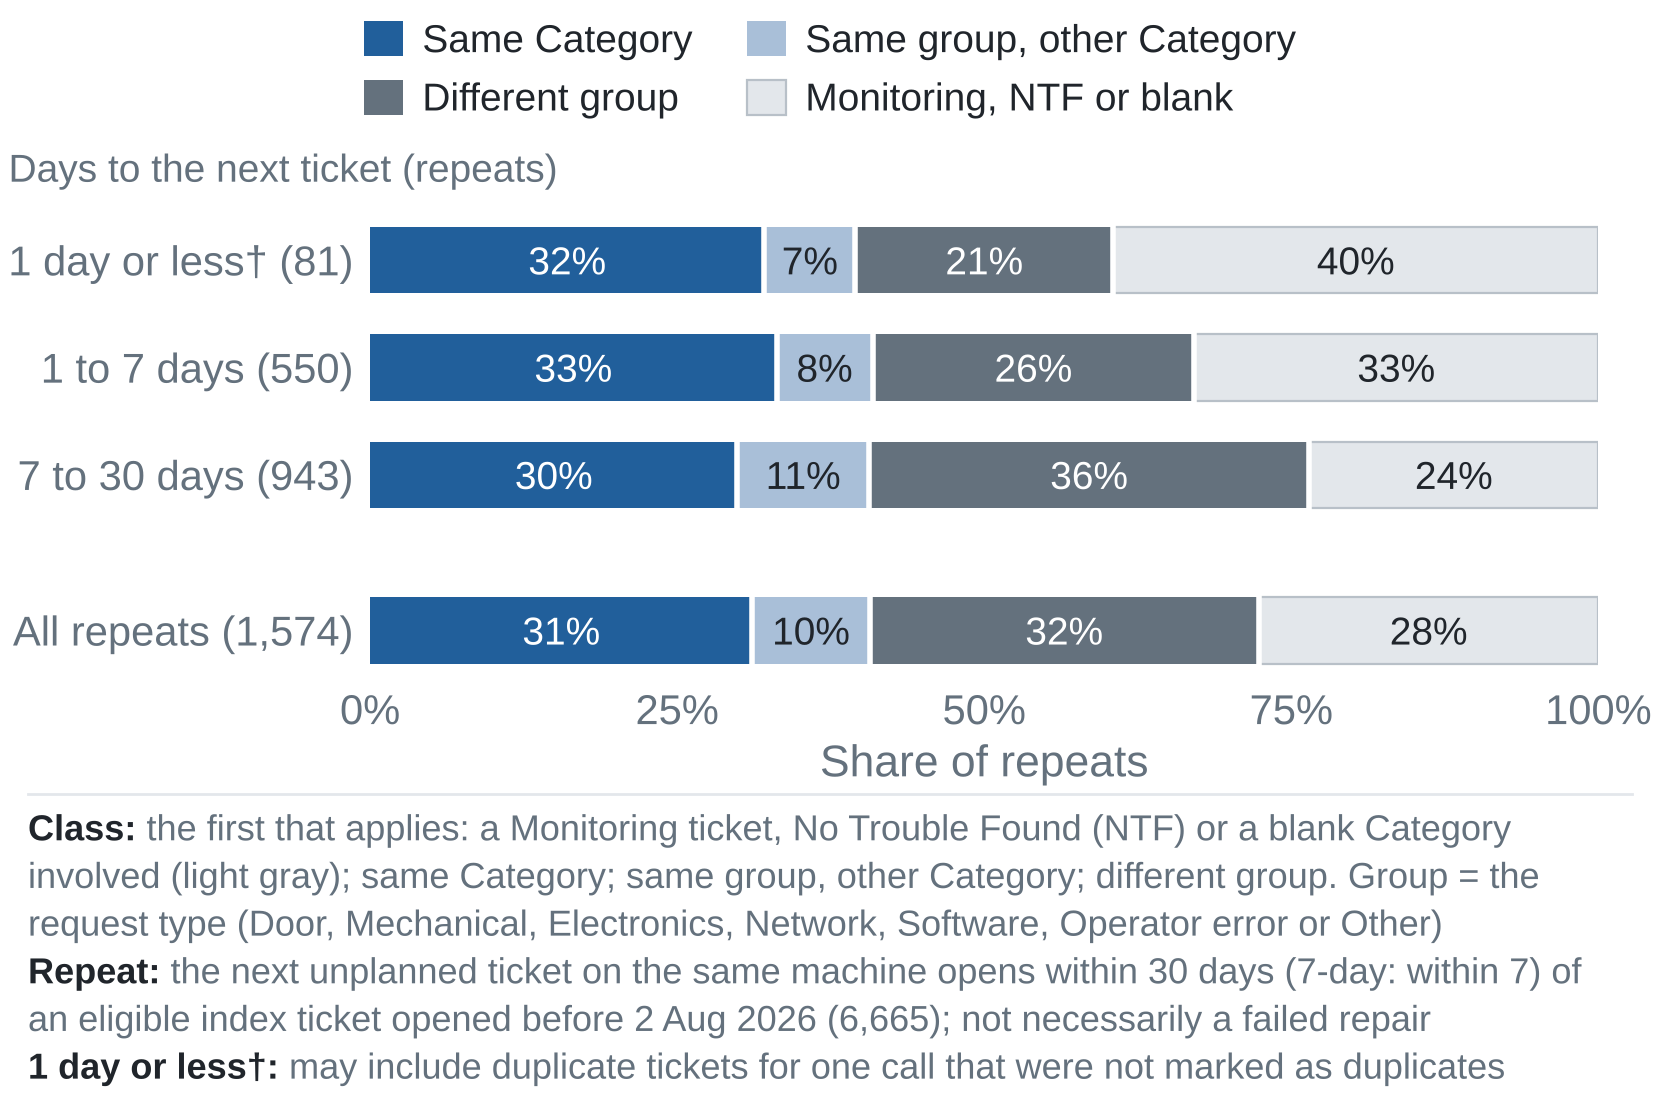
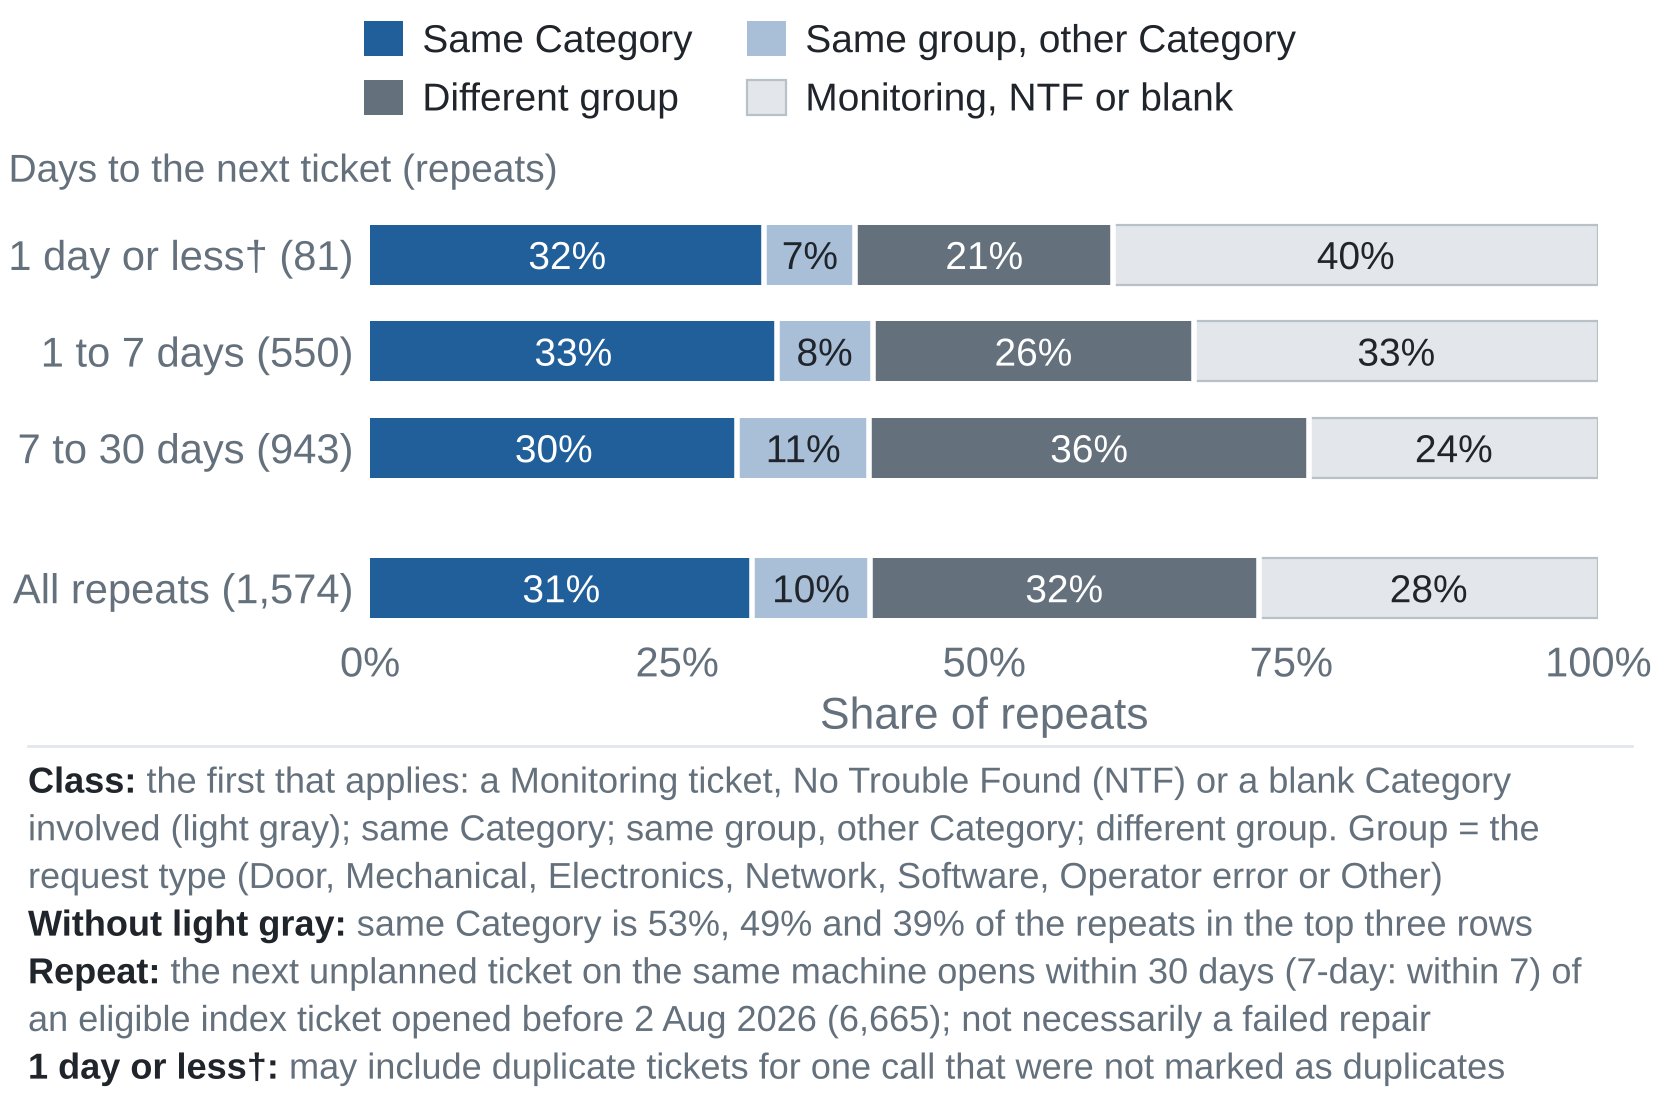
Follow-up charts and docs: fixes from the deck fact-check
The fact-check of slides 4a-5e (titles, takeaways, notes, alt text and the
rendered charts) against verification/outputs/followups/ confirmed 47
findings. The slide text fixes live in the deck; this commit carries the
chart and doc side:

- Definitions (followup_terms.py): pairing cells say "group", not "type";
  the share ratio leaves out Not categorised; the extra-tickets term says
  the numbers on the right are within model; sl_30's cells define n.
- sl_27 adds "Without light gray": same Category is 53%, 49% and 39% of
  the repeats in the first three gap rows once the process classes are
  left out (checked against the row-level repeats).
- sl_30 prints each row's repeats (n) right of every matrix.
- sl_24 and sl_25 label the pooled row Other+, as the column is.
- sl_31 labels the y axis on every panel.
- docs/10 and the executive summary: no model or telemetry type with 100+
  eligible tickets clearly stands out; item 9 is "Tickets close together
  are more often the same problem".

All 31 slide charts redraw with 2,202 number checks passing; unit tests
36/36 and the fixture test pass; no real identifiers on the charts or in
the deck text.

Claude-Session: https://claude.ai/code/session_01XBD7pXL4msNy4bnuJzjzhZ

Changed region(s): [[0.0, 0.5, 1.0, 0.8438], [0.0, 0.1875, 0.9831, 0.4688], [0.0, 0.2188, 0.2151, 0.25]]

diff --git a/viz/slides/followup_terms.py b/viz/slides/followup_terms.py
@@ -18,7 +18,8 @@ MATRIX_GROUPS = ['Door', 'Mechanical', 'Electronics', 'Network', 'No Trouble Fou
                  'Other']
 MATRIX_MAP = {'Software': 'Other', 'Operator error': 'Other', 'Other': 'Other'}
 MATRIX_SHORT = {'Door': 'Door', 'Mechanical': 'Mech.', 'Electronics': 'Electr.', 'Network': 'Netw.',
-                'No Trouble Found': 'NTF', 'Monitoring': 'Monit.', 'Not categorised': 'No cat.', 'Other': 'Other'}
+                'No Trouble Found': 'NTF', 'Monitoring': 'Monit.', 'Not categorised': 'No cat.', 'Other': 'Other+'}
+MATRIX_ROW = {'Other': 'Other+'}   # row labels: the pooled group (Software, Operator error, Other) reads Other+
 
 # Pairing classes on a slide: the three process classes shown as one segment (the CSVs keep all six). Blues = the
 # same problem or group, grays = a different group or a process ticket; adjacent pairs pass the dataviz validator's
@@ -72,6 +73,18 @@ def signed(x):
     return f'{x:+.0f}'.replace('-', '−')
 
 
+def same_wo_process():
+    """Same Category as a share of the repeats in each of the first three gap bins, leaving out the three process
+    classes (Monitoring, No Trouble Found or a blank Category involved): sl_27's light-gray segment."""
+    c = __import__('pandas').read_csv(FU / 'rp_classes.csv')
+    out = []
+    for b in ('1 day or less', 'over 1 to 7 days', 'over 7 to 30 days'):
+        x = c[c.gap_bin == b].set_index('pair_class').pairs
+        content = x.reindex(['Same Category', 'Same group, other Category', 'Different group']).sum()
+        out.append(x['Same Category'] / content)
+    return out
+
+
 def p_text(p, n_perm):
     """A permutation p-value as printed: below the smallest reachable value it reads '< 0.001'."""
     floor = 1 / (n_perm + 1)
@@ -110,7 +123,8 @@ def terms():
         'share_ratio': ('Share ratio', "a type's share of under-4 machines' tickets ÷ its share of 4+ machines' "
                         f"tickets of the same model, pooled over the {len(sup['support_models'])} models with 100+ "
                         f"machine-months in each age group ({100 * sup['under4_share_support']:.0f}% of under-4 and "
-                        f"{100 * sup['plus4_share_support']:.0f}% of 4+ tickets; Mantel-Haenszel); 1 = same mix"),
+                        f"{100 * sup['plus4_share_support']:.0f}% of 4+ tickets; Mantel-Haenszel); 1 = same mix; "
+                        'Not categorised is left out'),
         'interval': ('Bar', '95% interval, bootstrap over accounts (2,000 draws)'),
         'perm_test': ('Test', 'under-4 and 4+ labels shuffled among machines of the same model, 2,000 times: the mix '
                       f"differs overall (p {p_text(a['global_p'], s['n_perm'])}); blue = differs after "
@@ -125,8 +139,9 @@ def terms():
         'interval_halves': ('Bar', f'95% interval, bootstrap over accounts ({nb} draws; the {und_h} in which a model '
                             "has no 4+ machine-months are left out); bold = the change's interval excludes 0"),
         'extra': ('Extra tickets', "under-4 machines' tickets minus what their months give at 4+ machines' rates "
-                  f"({a['extra_tickets']:,.0f} in all). Ring: all; dot: within model, at each model's own 4+ rate on "
-                  f"the {len(sup['support_models'])} models with {s['definitions']['min_support_months']}+ "
+                  f"({a['extra_tickets']:,.0f} in all). Ring: all; dot and the numbers on the right: within model, at "
+                  f"each model's own 4+ rate on the {len(sup['support_models'])} models with "
+                  f"{s['definitions']['min_support_months']}+ "
                   'machine-months in each age group; the gap: model mix, plus tickets on models outside the '
                   f"comparison ({a['extra_outside_support']:.0f} in all; {signed(out_g.min())} to "
                   f'{signed(out_g.max())} by group)'),
@@ -134,8 +149,9 @@ def terms():
                      'categorised); models with 30+ tickets in each age group'),
         'rate_model': ('Rate per 100', 'unplanned tickets per 100 installed machine-months; – for telemetry types, '
                        'which have no installed months until the database extract'),
-        'mix_test': ('Mix test', "under-4 and 4+ labels shuffled among machines of the same model (a type's: of the "
-                     f"same type and model), {s['n_perm']:,} times; Benjamini-Hochberg q, bold = q < 0.05"),
+        'mix_test': ('Mix test', 'under-4 and 4+ labels shuffled among machines of the same model (for a telemetry '
+                     f"type: of the same telemetry type and model), {s['n_perm']:,} times; Benjamini-Hochberg q, "
+                     'bold = q < 0.05'),
         'telemetry_type_cut': ('Telemetry type', "the clearView machine type of the device matched to the machine's "
                                'tickets; ' + type_spans()),
         'telemetry_type': ('Telemetry type', 'the clearView type of the matched device; scrubex2.0-2, -3, -4 and -5 '
@@ -149,15 +165,15 @@ def terms():
         'repeat': ('Repeat', 'the next unplanned ticket on the same machine opens within 30 days (7-day: within 7) of '
                    f"an eligible index ticket opened before 2 Aug 2026 ({b['eligible']:,}); not necessarily a failed "
                    'repair'),
-        'pairing': ('Cell', "share of the row's repeats whose next ticket is of the column's type (outlined: same "
-                    "type; blank: none); row label: repeats and the share of that type's tickets that repeat"),
-        'pairing7': ('Cell', "share of the row's repeats whose next ticket is of the column's type (outlined: same "
-                     "type; blank: none); row label: 7-day repeats and the share of that type's tickets that repeat "
+        'pairing': ('Cell', "share of the row's repeats whose next ticket is in the column's group (outlined: same "
+                    "group; blank: none); row label: repeats and the share of that group's tickets that repeat"),
+        'pairing7': ('Cell', "share of the row's repeats whose next ticket is in the column's group (outlined: same "
+                     "group; blank: none); row label: 7-day repeats and the share of that group's tickets that repeat "
                      'within 7 days'),
-        'pairing_panel': ('Cell', "share of the row's repeats whose next ticket is of the column's type (outlined: same "
-                          'type; blank: none; italic: fewer than 5 pairs)'),
-        'rest_panel': ('Rest', 'Network, Software, Operator error, Other and Not categorised together; NTF = No Trouble '
-                       'Found'),
+        'pairing_panel': ('Cell', "share of the row's repeats whose next ticket is in the column's group (outlined: "
+                          "same group; blank: none; italic: fewer than 5 pairs); n = the row's repeats"),
+        'rest_panel': ('Rest', 'Network, Software, Operator error, Other and Not categorised together; NTF = No '
+                       'Trouble Found'),
         'pairs_gap': ('Pairs', f'{int(gaps.pairs.sum()):,} pairs of unplanned tickets on one machine, consecutive or '
                       'not, each with a recorded Category (No Trouble Found counts, Monitoring does not); 90+ days '
                       'apart: the usual mix'),
@@ -167,19 +183,21 @@ def terms():
                        f"{100 * sh['observed_share']:.0f}% share it vs {100 * lab['null_share']:.0f}% by chance (their "
                        f"own mix, not the {100 * usual:.0f}% line; p {p_text(lab['p'], s['n_perm'])})"),
         'interval_line': ('Line on each bar', f'95% interval, bootstrap over accounts ({nb} draws)'),
+        'classes_gap': ('Without light gray', 'same Category is ' + and_list(
+            f'{100 * x:.0f}%' for x in same_wo_process()) + ' of the repeats in the top three rows'),
         'one_day': ('1 day or less†', 'may include duplicate tickets for one call that were not marked as duplicates'),
         'classes': ('Class', 'the first that applies: a Monitoring ticket, No Trouble Found (NTF) or a blank Category '
                     'involved (light gray); same Category; same group, other Category; different group. '
                     'Group = the request type (Door, Mechanical, Electronics, Network, Software, Operator error or '
                     'Other)'),
-        'repeat7': ('7-day follow-up', 'the next unplanned ticket on the same machine opens within 7 days of an index '
+        'repeat7': ('7-day repeat', 'the next unplanned ticket on the same machine opens within 7 days of an index '
                     f"ticket opened before 2 Aug 2026 ({b['repeats_7']:,} of {b['eligible']:,}); not necessarily a "
                     'failed repair'),
-        'other_groups': ('Other', 'Software, Operator error and Other; No cat. = Not categorised: no Category, outside '
-                         'the Electronics, Network, Software and Operator Error codes; NTF = No Trouble Found'),
+        'other_groups': ('Other+', 'Software, Operator error and Other; No cat. = Not categorised: no Category, '
+                         'outside the Electronics, Network, Software and Operator Error codes; NTF = No Trouble Found'),
         'install_rate': ('Rate', "unplanned tickets of the type per 100 installed machine-months (Aug 2025 to Aug "
                          f"2026) on the {n_sup} models with 100+ machine-months in each age group, by the machine's "
-                         f"install year; line: 95% interval, bootstrap over accounts ({nb} draws)"),
+                         f"install year; vertical line: 95% interval, bootstrap over accounts ({nb} draws)"),
         'install_band': ('Shaded', 'install years whose machines are under 4 at the midpoint of their months on '
                          f"IPA's list: the first three bars of slide 4 ({100 * float(u4_2022.iloc[0]):.0f}% of 2022 "
                          'installs)'),
@@ -195,8 +213,8 @@ def terms():
         'repeat_interval': ('Line', f'95% interval of the repeat rate, bootstrap over accounts ({nb} draws)'),
         'share_repeats': ('Share', f"of all {b['repeats_30']:,} repeats; models (or types) with 100+ eligible index "
                           'tickets, the rest pooled'),
-        'class_units': ('Rows', 'models (or telemetry types) with 50+ repeats within 30 days (repeats in brackets), the '
-                        'rest pooled; No device match and Unknown shown apart; descriptive, not tested'),
+        'class_units': ('Rows', 'models (or telemetry types) with 50+ repeats within 30 days (repeats in brackets), '
+                        'the rest pooled; No device match and Unknown shown apart; descriptive, not tested'),
         'matrix_models': ('Models', 'the four with the most repeats within 30 days; every model and telemetry type '
                           'is in rp_model_matrices.csv'),
         'random_timing': ('Random timing', "the repeat rate if each machine's tickets fell at random over its own "

diff --git a/viz/slides/sl_31_install_years.py b/viz/slides/sl_31_install_years.py
@@ -55,8 +55,10 @@ def plot(out_dir=S.FIG_DIR):
                     [y.install.astype(int).isin(YEARS)].all()))
     # The shaded years: machines under 4 at the midpoint (90% of 2022 installs, all later ones, none earlier).
     u4 = years[years.category == ALL].set_index('install').under4_share_of_machines
-    S.check('sl_31 install years 2023-2026 are all under 4', 1, int((u4[[str(y) for y in range(2023, 2027)]] == 1).all()))
-    S.check('sl_31 install years up to 2021 are all 4+', 1, int((u4[[str(y) for y in range(2016, 2022)]] == 0).all()))
+    S.check('sl_31 install years 2023-2026 are all under 4', 1,
+            int((u4[[str(y) for y in range(2023, 2027)]] == 1).all()))
+    S.check('sl_31 install years up to 2021 are all 4+', 1,
+            int((u4[[str(y) for y in range(2016, 2022)]] == 0).all()))
     share22 = float(u4['2022'])
 
     fig, ax0 = S.figure(S.FULL_TALL)
@@ -65,7 +67,7 @@ def plot(out_dir=S.FIG_DIR):
     fig.get_layout_engine().set(wspace=0.06)
     cat_max = max(years[years.category.isin(ORDER) & years.install.astype(int).isin(YEARS)].rate_hi.max(), 1)
     ylim_cat = (0, np.ceil(cat_max + 0.25))
-    for k, (ax, c) in enumerate(zip(axes, [ALL] + ORDER)):
+    for ax, c in zip(axes, [ALL] + ORDER):
         S.style_axes(ax, grid='y', baseline='bottom')
         y = years[(years.category == c) & years.install.astype(int).isin(YEARS)].copy()
         y['yr'] = y.install.astype(int)
@@ -87,8 +89,6 @@ def plot(out_dir=S.FIG_DIR):
         ax.set_ylim(0, top)
         if c == ALL:
             ax.set_ylabel('Tickets per 100 machine-months')
-        elif k > 1:
-            ax.tick_params(axis='y', labelleft=False)
         ax.set_title(c, loc='left', fontsize=S.FONT, color=S.INK, pad=26)
         r = cohorts.loc[(c, PEAK)]
         txt = f"{PEAK.replace('-', '–')} vs {NEWEST.replace('-', '–')} installs: {ratio_text(r)}"
@@ -103,11 +103,13 @@ def plot(out_dir=S.FIG_DIR):
                 int(r.ratio_lo <= r.ratio_to_newest_cohort <= r.ratio_hi))
     for ax in axes[2:]:
         ax.sharey(axes[1])
+        ax.tick_params(axis='y', labelleft=True)        # each panel reads its own values
     axes[1].set_ylim(*ylim_cat)
     S.check('sl_31 every Category interval inside its axes', 1,
             int(years[years.category.isin(ORDER) & years.install.astype(int).isin(YEARS)].rate_hi.max() < ylim_cat[1]))
 
-    handles = [Line2D([], [], color=S.BLUE, lw=1.2, marker='o', ms=6.5, mec=S.WHITE, label='install year, with 95% interval'),
+    handles = [Line2D([], [], color=S.BLUE, lw=1.2, marker='o', ms=6.5, mec=S.WHITE,
+                      label='install year, with 95% interval'),
                Line2D([], [], color=S.GRAY, lw=2.0, label='install cohort (2016–18, 2019–21, 2022–23, 2024–26)'),
                Patch(facecolor=S.GRID, alpha=0.55, label='under 4 this year')]
     fig.legend(handles=handles, loc='outside upper center', ncols=3, fontsize=S.SMALL, handlelength=2.2,

diff --git a/viz/slides/sl_27_repeat_classes.py b/viz/slides/sl_27_repeat_classes.py
@@ -32,7 +32,7 @@ from sl_24_repeat_pairings_7d import pct_drawn, pct_text, text_width_pt  # noqa:
 from sl_26_same_problem_by_gap import check_numbers  # noqa: E402
 
 PNG = 'sl_27_repeat_classes.png'
-TERMS = ['classes', 'repeat', 'one_day']
+TERMS = ['classes', 'classes_gap', 'repeat', 'one_day']
 DAGGER = '†' if 'one_day' in TERMS else ''   # marks the 1-day bin once its caveat is defined
 BINS = ['1 day or less', 'over 1 to 7 days', 'over 7 to 30 days', 'all repeats']
 NAMES = ['1 day or less' + DAGGER, '1 to 7 days', '7 to 30 days', 'All repeats']
@@ -168,6 +168,12 @@ def check_definitions(p, rep, s):
         ('before 2 Aug 2026: the cutoff\'s year', r'before \d+ \w+ (\d{4})', cutoff.year, 0),
         ('6,665 eligible index tickets', r'\(([\d,]+)\)', b['eligible'], 0)])
     check_numbers('sl_27', t, 'classes', [])
+    content = rep[rep.pair_class.isin(['Same Category', 'Same group, other Category', 'Different group'])]
+    wo = [100 * (content[content.gap_bin == b].pair_class == 'Same Category').mean() for b in BINS[:3]]
+    check_numbers('sl_27', t, 'classes_gap', [
+        ('same Category without the process classes, 1 day or less', r'is (\d+)%', wo[0], 0.5),
+        ('same Category without the process classes, 1 to 7 days', r'is \d+%, (\d+)%', wo[1], 0.5),
+        ('same Category without the process classes, 7 to 30 days', r'and (\d+)% of', wo[2], 0.5)])
     groups = re.search(r'request type \(([^)]*)\)', t['classes'][1])
     if groups:                                   # the groups the definition names = those in the three content classes
         named = sorted(re.split(r', (?:or )?| or ', groups.group(1)))

diff --git a/viz/slides/sl_24_repeat_pairings_7d.py b/viz/slides/sl_24_repeat_pairings_7d.py
@@ -185,7 +185,8 @@ def pairing_figure(days, tag):
                 float(pt.strip('(%)')), 0.5)
     w_pct = max(text_width_pt(fig, t, S.SMALL) for t in pct_txt)
     w_rep = max(text_width_pt(fig, t, S.SMALL) for t in rep_txt)
-    w_name = max(text_width_pt(fig, t, S.TICK) for t in g)
+    names = [T.MATRIX_ROW.get(x, x) for x in g]
+    w_name = max(text_width_pt(fig, t, S.TICK) for t in names)
     gap0, gap1, gap2 = 7, 5, 11           # points: matrix to %, % to repeats, repeats to name
     for i in range(len(g)):
         for txt, x in ((pct_txt[i], -gap0), (rep_txt[i], -(gap0 + w_pct + gap1))):
@@ -193,7 +194,7 @@ def pairing_figure(days, tag):
                         textcoords='offset points', ha='right', va='center_baseline', fontsize=S.SMALL, color=S.INK2)
     pad = gap0 + w_pct + gap1 + w_rep + gap2
     ax.set_yticks(np.arange(len(g)) + 0.5)
-    ax.set_yticklabels(g)
+    ax.set_yticklabels(names)
     ax.tick_params(axis='y', pad=pad)
     for t in ax.get_yticklabels():
         t.set_verticalalignment('center_baseline')

diff --git a/viz/slides/sl_30_model_matrices.py b/viz/slides/sl_30_model_matrices.py
@@ -87,6 +87,13 @@ def plot(out_dir=S.FIG_DIR):
                 else:
                     S.check(f'{tag} {gi} -> {gj} blank = no pairs', 0, int(counts.iloc[i, j]))
 
+        for i, gi in enumerate(ROWS):               # each row's repeats, right of the matrix
+            n_txt = f'{int(row_tot[i, 0]):,}'
+            S.check(f'{tag} {gi} row repeats', int(from_pairs.loc[gi].sum()), int(n_txt.replace(',', '')))
+            ax.annotate(n_txt, xy=(1, i + 0.5), xycoords=('axes fraction', 'data'), xytext=(5, 0),
+                        textcoords='offset points', ha='left', va='center_baseline', fontsize=S.DEF, color=S.INK2)
+        ax.annotate('n', xy=(1, 1), xycoords='axes fraction', xytext=(5, 4), textcoords='offset points', ha='left',
+                    va='bottom', fontsize=S.DEF, color=S.INK2)
         title = f'{model} ({n:,} repeats)'
         S.check(f'{tag} title repeats', bym.set_index('model').repeats_30[model],
                 int(re.search(r'\(([\d,]+) repeats\)', title).group(1).replace(',', '')))

diff --git a/docs/10_followups_results.md b/docs/10_followups_results.md
@@ -201,7 +201,7 @@
      the follow-up only, 23 both.
    - Charts [sl_24](../viz/figures/slides/sl_24_repeat_pairings_7d.png) (7 days) and
      [sl_25](../viz/figures/slides/sl_25_repeat_pairings_30d.png) (30 days).
-9. **The same problem comes back quickly** (chart [sl_26](../viz/figures/slides/sl_26_same_problem_by_gap.png)).
+9. **Tickets close together are more often the same problem** (chart [sl_26](../viz/figures/slides/sl_26_same_problem_by_gap.png)).
    - **By gap.** Over every pair of tickets on one machine with a recorded Category, monitoring excluded (6,980 pairs;
      No Trouble Found counts as a Category), the same-Category share falls with the gap between them:
 
@@ -231,7 +231,7 @@
      - Electronics 46%;
      - Network 38%.
 10. **Offenders by volume are the biggest models; once ticket volume and timing are allowed for, no model or telemetry
-    type stands out from the fleet.**
+    type with 100+ eligible tickets clearly stands out from the fleet.**
     - **The random-timing baseline.** If each machine's tickets came at random over its own months, 15.4% of tickets
       would repeat within 30 days. 23.6% do (×1.53). Within 7 days it is 4.1% against 9.5% (×2.30).
     - **By volume:** LVD-Remote-2.0 holds 19% of all repeats, LVRR-WP-2.0 17% and MV-2.0 12%.

diff --git a/docs/executive_summary.md b/docs/executive_summary.md
@@ -36,7 +36,8 @@ IPA meeting on 13 October 2026).*
 >     excluded), 46% of the 63 pairs a day or less apart share it (95% 33–60%), against 27% of pairs more than six
 >     months apart.
 >   - Nearly every model repeats more than random timing would give (15.4% for the fleet against 23.6% observed), and
->     once ticket volume and timing are allowed for, no model or telemetry type stands out from the fleet.
+>     once ticket volume and timing are allowed for, no model or telemetry type with 100+ eligible tickets clearly
+>     stands out from the fleet.
 
 > **Update, 22 October 2026: association study** (`docs/07`, `docs/08`; provisional).
 > - **Primary result.** On average over the five code sets that could be tested, a ticket's Category agrees with the
